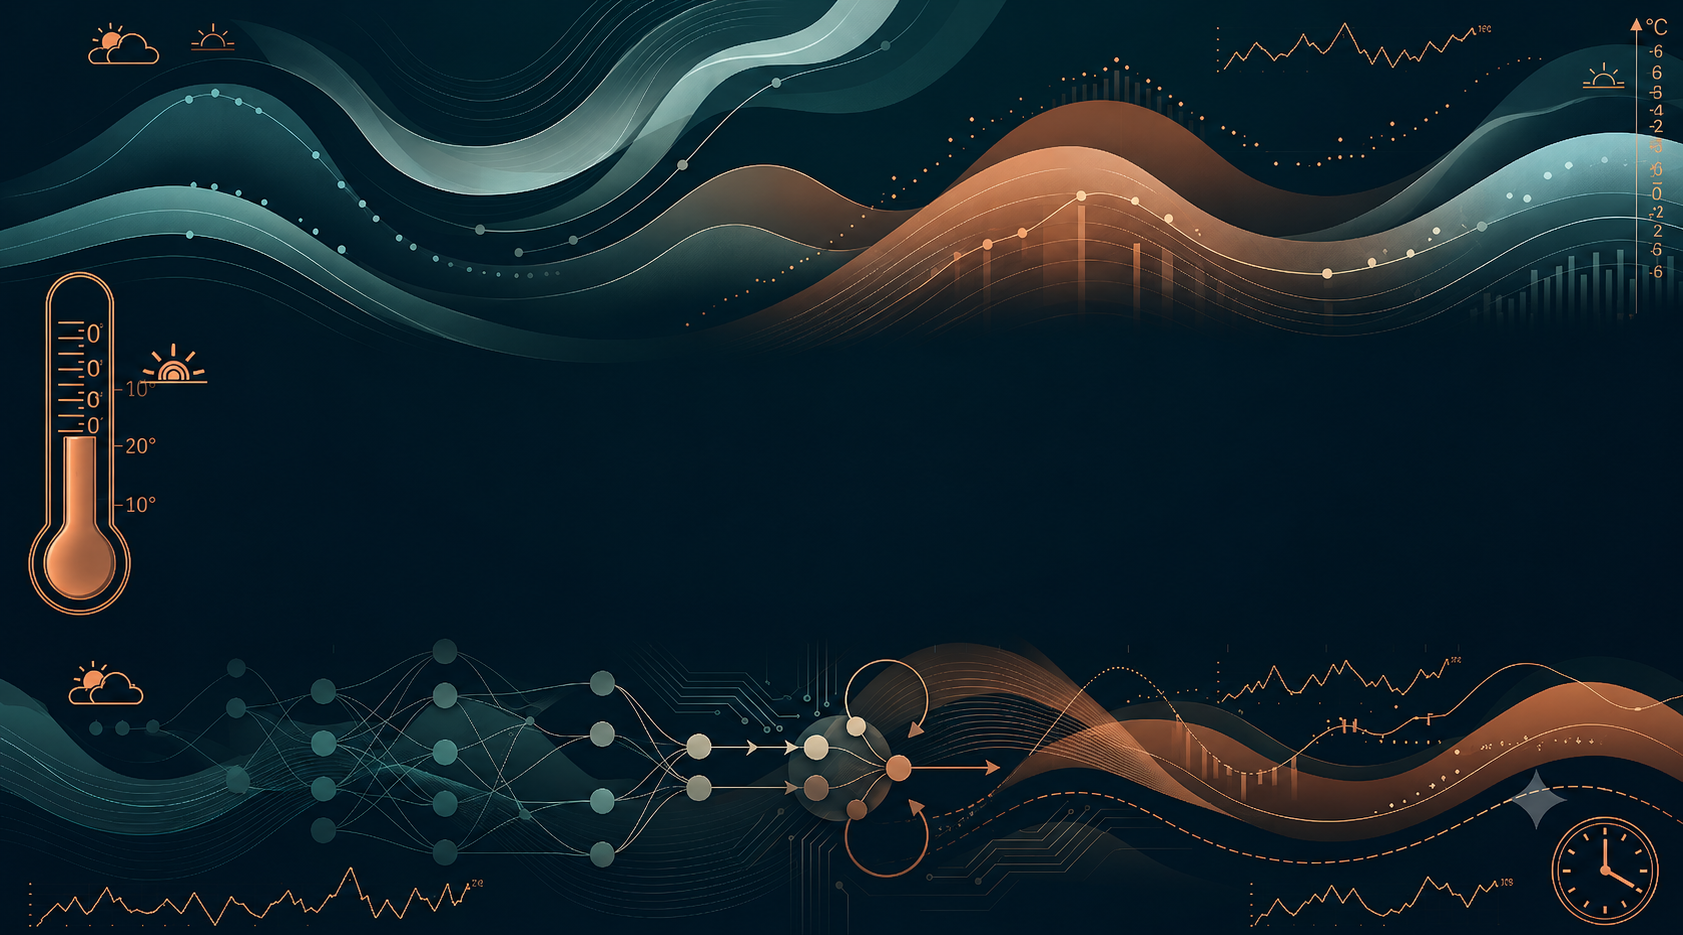
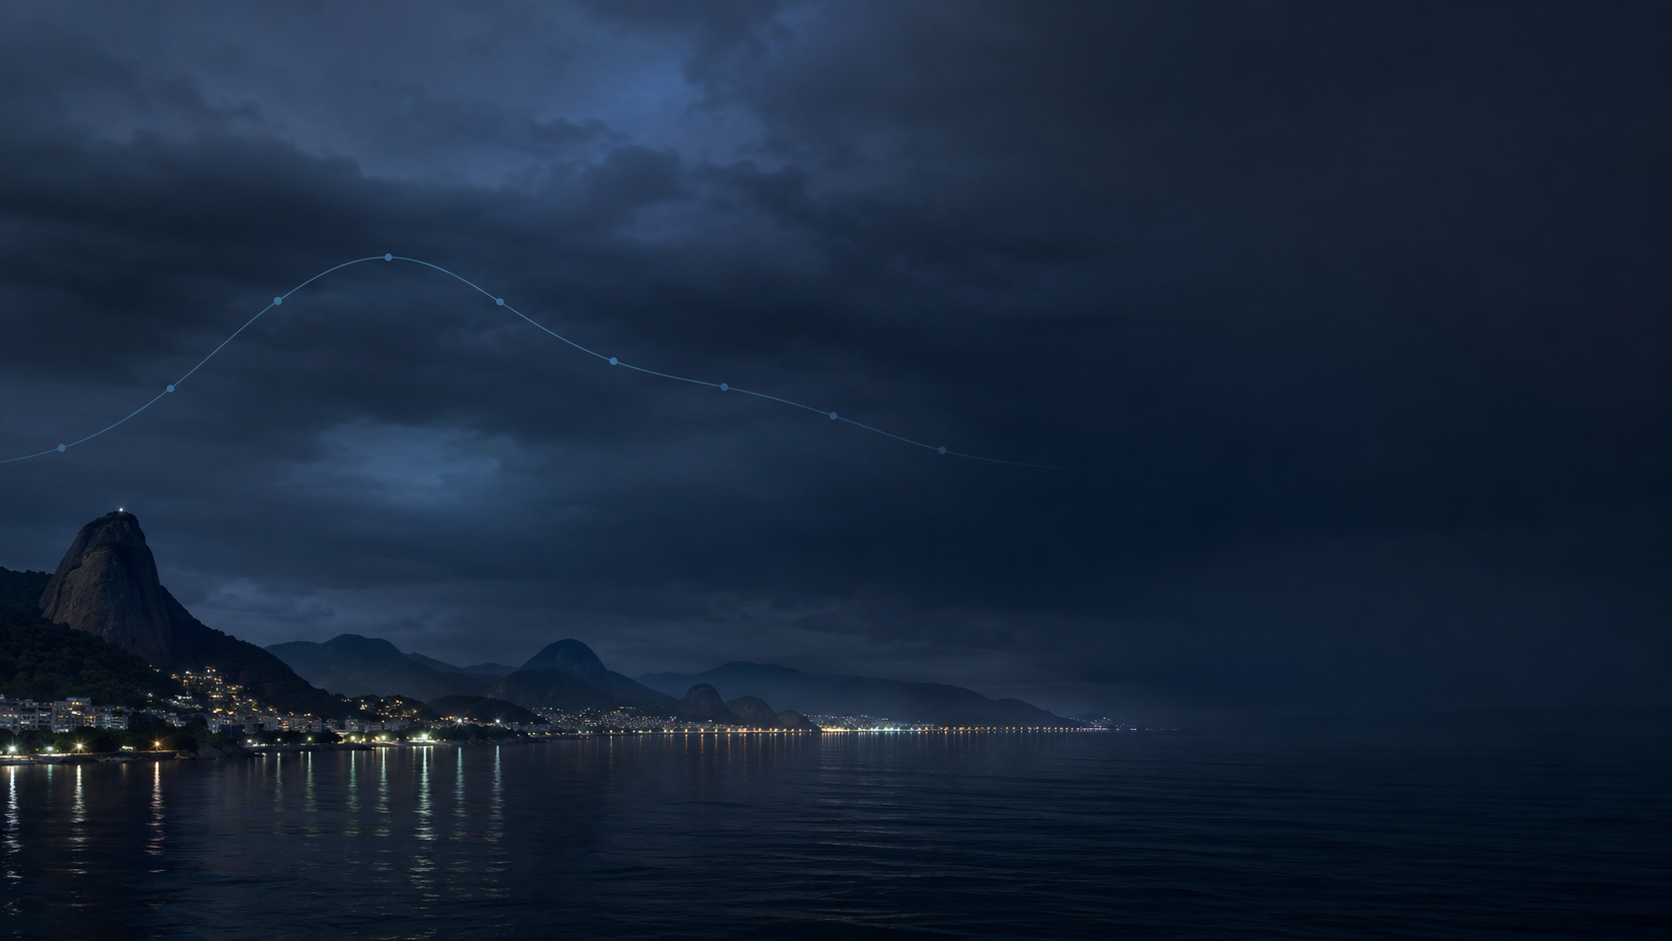
atualiza paleta de cores para as novas imagens

diff --git a/Apresentação/custom.css b/Apresentação/custom.css
@@ -16,11 +16,11 @@
 #title-slide.title-slide {
   background: linear-gradient(
       135deg,
-      rgba(8, 14, 20, 0.82),
-      rgba(15, 35, 45, 0.65),
-      rgba(45, 30, 22, 0.55)
+      rgba(6, 12, 22, 0.82),
+      rgba(10, 24, 40, 0.62),
+      rgba(48, 34, 18, 0.55)
     ),
-    url("media/capa.jpg");
+    url("media/capa.png");
   background-size: cover;
   background-position: center;
 }
@@ -32,13 +32,13 @@
   line-height: 1.2;
 }
 #title-slide .subtitle {
-  color: #8FA8B5;
+  color: #82A8C2;
   font-size: 1.2em;
   font-weight: 350;
   margin-top: 0.4em;
 }
 #title-slide .author {
-  color: #D08A4F;
+  color: #D9A867;
   font-size: 0.7em;
   margin-top: 1em;
 }
@@ -47,22 +47,22 @@
 .reveal h1 {
   font-size: 2.4em;
   font-weight: 800;
-  color: #E8935C;
+  color: #E8A552;
 }
 .reveal h2 {
   font-size: 1.7em;
   font-weight: 700;
-  color: #5FA8AE;
+  color: #5AA0D6;
 }
 .reveal h3 {
   font-size: 1.3em;
   font-weight: 600;
-  color: #E8935C;
+  color: #E8A552;
 }
 
 /* ===== Slide de transição ===== */
 .reveal .title-slide {
-  background: url("media/transicao.jpg");
+  background: url("media/transicao.png");
   background-size: cover;
   background-repeat: no-repeat;
   color: #F2EDE4;
@@ -85,28 +85,28 @@
 
 /* ===== Listas ===== */
 .reveal ul li::marker {
-  color: #E8935C;
+  color: #E8A552;
 }
 
 /* ===== Caixas ===== */
 .box-teal {
-  border: 2px solid #5FA8AE;
-  background: rgba(95, 168, 174, 0.10);
+  border: 2px solid #5AA0D6;
+  background: rgba(90, 160, 214, 0.10);
   padding: 0.7em;
   border-radius: 20px;
   box-shadow: 0 4px 10px rgba(0, 0, 0, 0.35);
 }
 .box-copper {
-  border: 2px solid #D97A3D;
-  background: rgba(217, 122, 61, 0.14);
+  border: 2px solid #D9973F;
+  background: rgba(217, 151, 63, 0.14);
   padding: 0.9em 1.1em;
   border-radius: 20px;
   box-shadow: 0 4px 10px rgba(0, 0, 0, 0.30);
 }
 
 /* ===== Destaques ===== */
-.highlight-teal { color: #5FA8AE; font-weight: 700; }
-.highlight-copper { color: #D97A3D; font-weight: 700; }
+.highlight-teal { color: #7EC8E8; font-weight: 700; }
+.highlight-copper { color: #E8A552; font-weight: 700; }
 
 /* ===== Glass Referencia ===== */
 .reveal .slides section.glass {
@@ -117,7 +117,7 @@
 
 /* ===== Slide Final ===== */
 .reveal .final-slide {
-  background: url("media/final.jpg");
+  background: url("media/final.png");
   background-size: cover;
   background-repeat: no-repeat;
   color: #F2EDE4;
@@ -134,7 +134,7 @@
 /* ===== Rodapé ===== */
 .reveal .footer {
   font-size: 0.5em;
-  color: rgba(143, 168, 181, 0.70);
+  color: rgba(130, 168, 194, 0.70);
 }
 
 /* ===== Tabela geral ===== */
@@ -148,12 +148,12 @@
 
 /* ===== Tema: cabeçalho ===== */
 .reveal table.tabela-tema thead th {
-  background-color: #5FA8AE !important;
+  background-color: #5AA0D6 !important;
   color: #08141B !important;
   font-weight: 700;
   padding: 10px;
   text-align: left;
-  border-bottom: 3px solid #D97A3D;
+  border-bottom: 3px solid #D9973F;
   position: sticky;
   top: 0;
   z-index: 1;
@@ -175,14 +175,14 @@
 }
 
 .reveal table.tabela-tema tbody tr:hover {
-  background-color: rgba(95, 168, 174, 0.12);
+  background-color: rgba(90, 160, 214, 0.12);
   transition: background-color 0.2s;
 }
 
 /* primeira coluna em cobre monoespaçado */
 .reveal table.tabela-tema tbody td:first-child {
   font-weight: 600;
-  color: #E8935C;
+  color: #E8A552;
   font-family: monospace;
 }
 
@@ -204,7 +204,7 @@
   overflow-y: auto;
   width: 100%;
   scrollbar-width: thin;
-  scrollbar-color: #5FA8AE #0E1820;
+  scrollbar-color: #5AA0D6 #0E1820;
 }
 
 .tabela-scroll tbody::-webkit-scrollbar {
@@ -217,7 +217,7 @@
 }
 
 .tabela-scroll tbody::-webkit-scrollbar-thumb {
-  background: #5FA8AE;
+  background: #5AA0D6;
   border-radius: 4px;
 }
 
@@ -230,21 +230,21 @@
 /* ===== Linhas destacadas tabela 1 ===== */
 
 .reveal table.tabela-tema-destaque1 tbody tr:nth-child(1) td{
-  background-color: rgba(245, 197, 24, 0.18) !important;
-  color: #D97706 !important;
+  background-color: rgba(232, 165, 82, 0.18) !important;
+  color: #E8A552 !important;
   font-weight: 700;
 }
 
 /* ===== code ===== */
 code.copper {
-  background: rgba(217, 122, 61, 0.15);
-  color: #D97A3D;
+  background: rgba(217, 151, 63, 0.15);
+  color: #E8A552;
   padding: 2px 6px;
   border-radius: 4px;
 }
 code.teal {
-  background: rgba(95, 168, 174, 0.15);
-  color: #5FA8AE;
+  background: rgba(90, 160, 214, 0.15);
+  color: #7EC8E8;
   padding: 2px 6px;
   border-radius: 4px;
 }